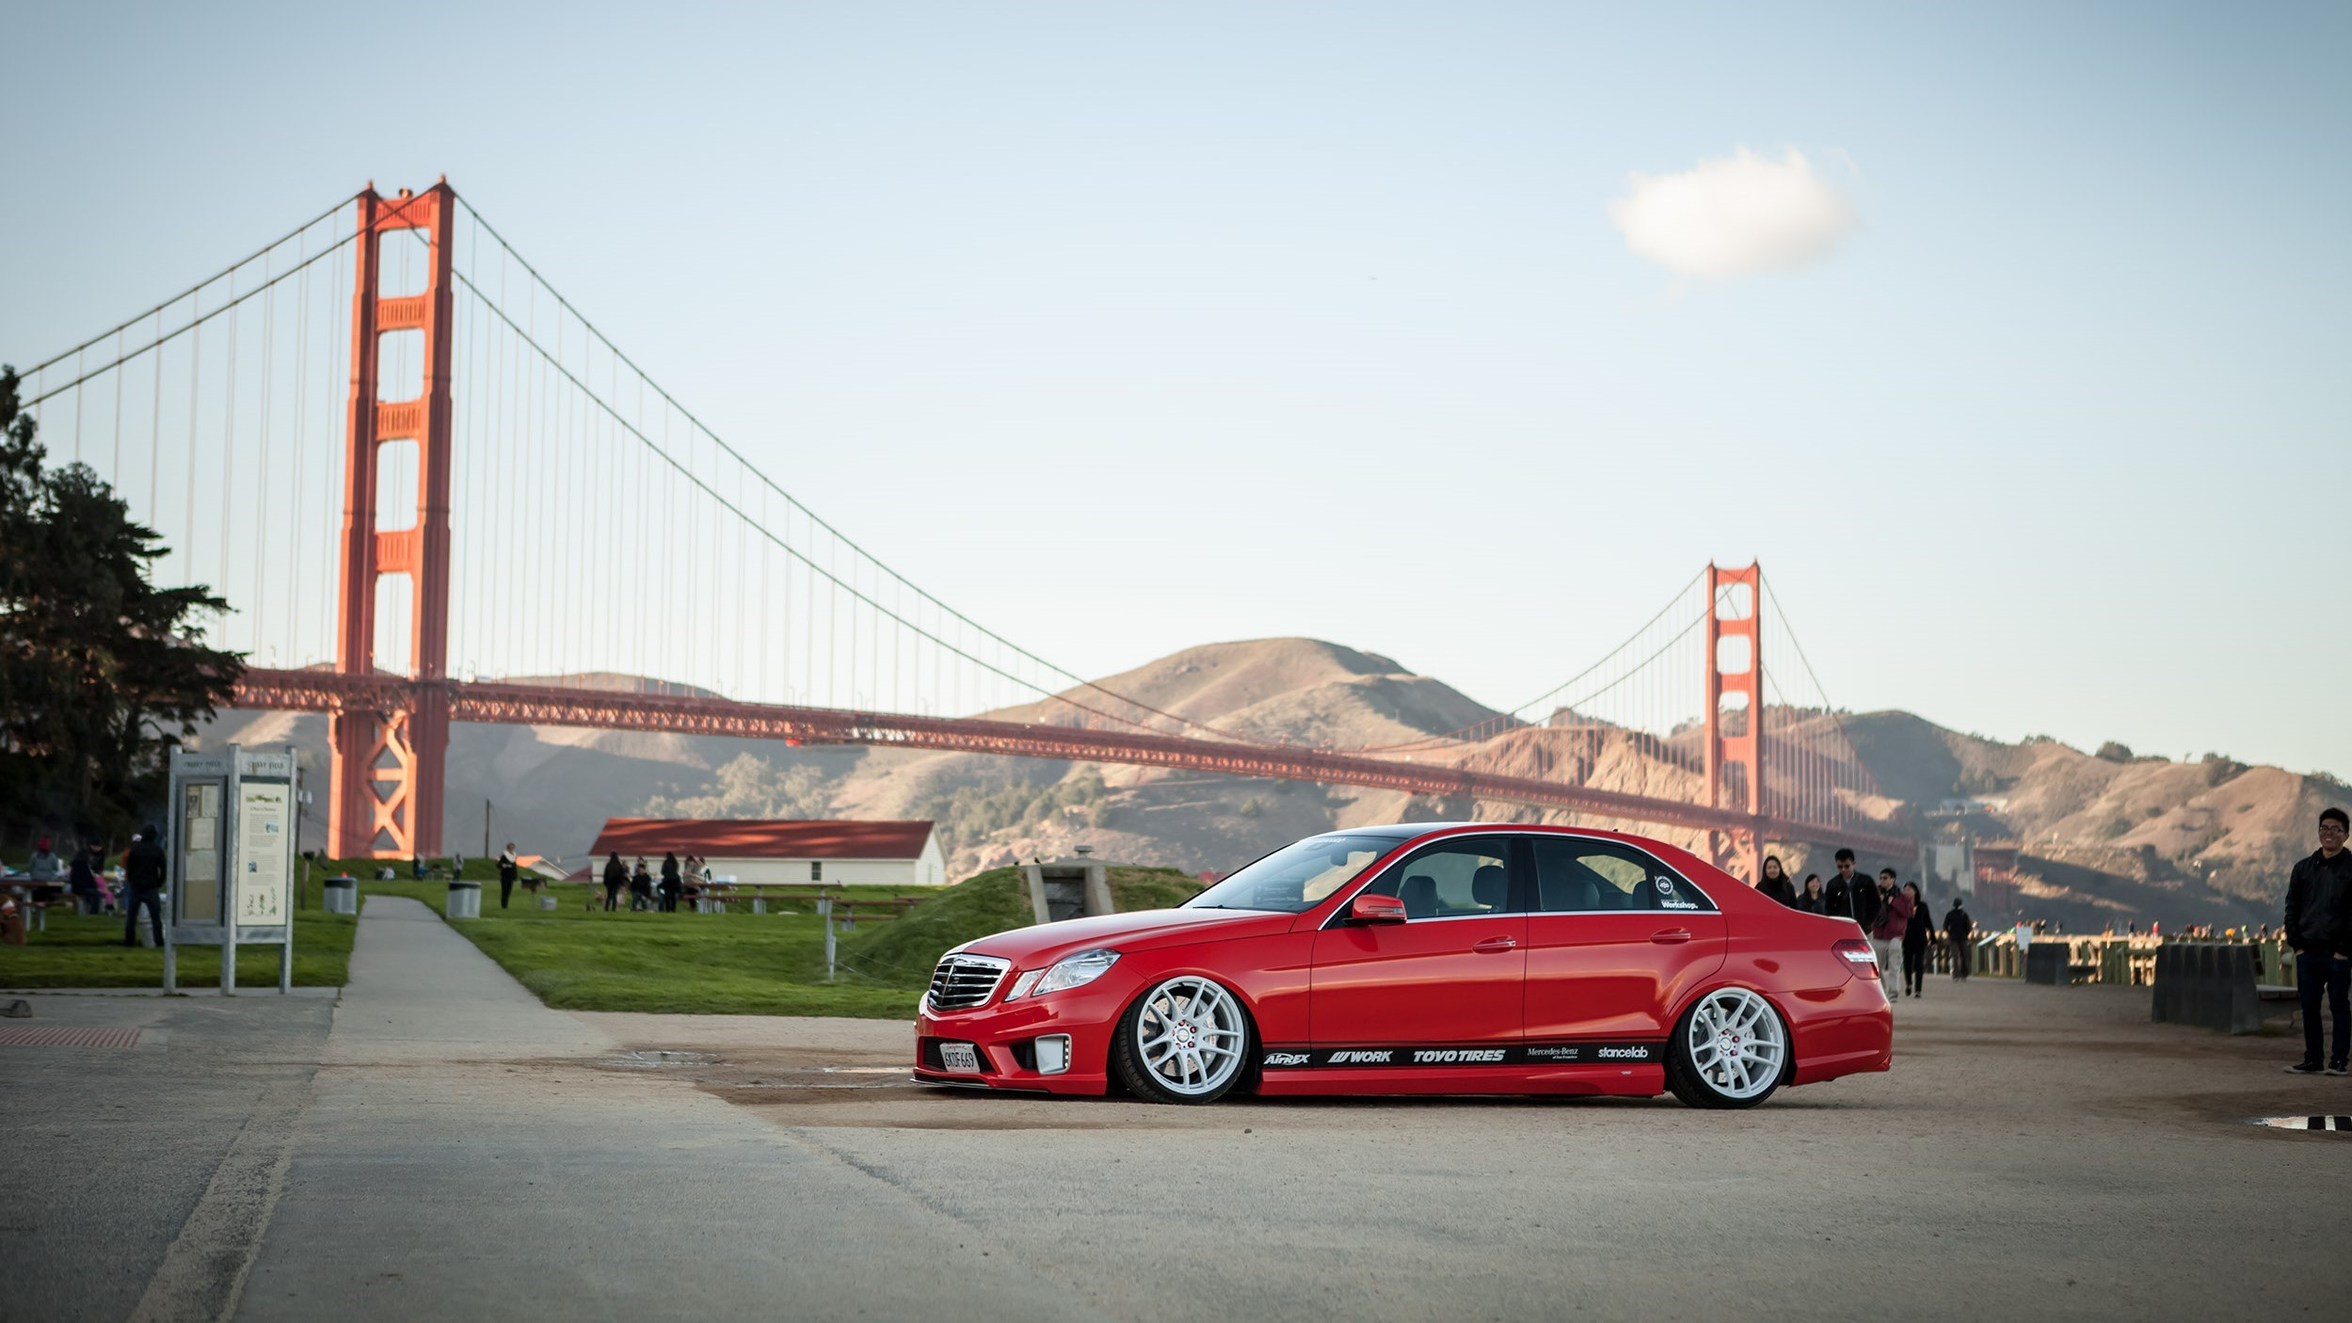
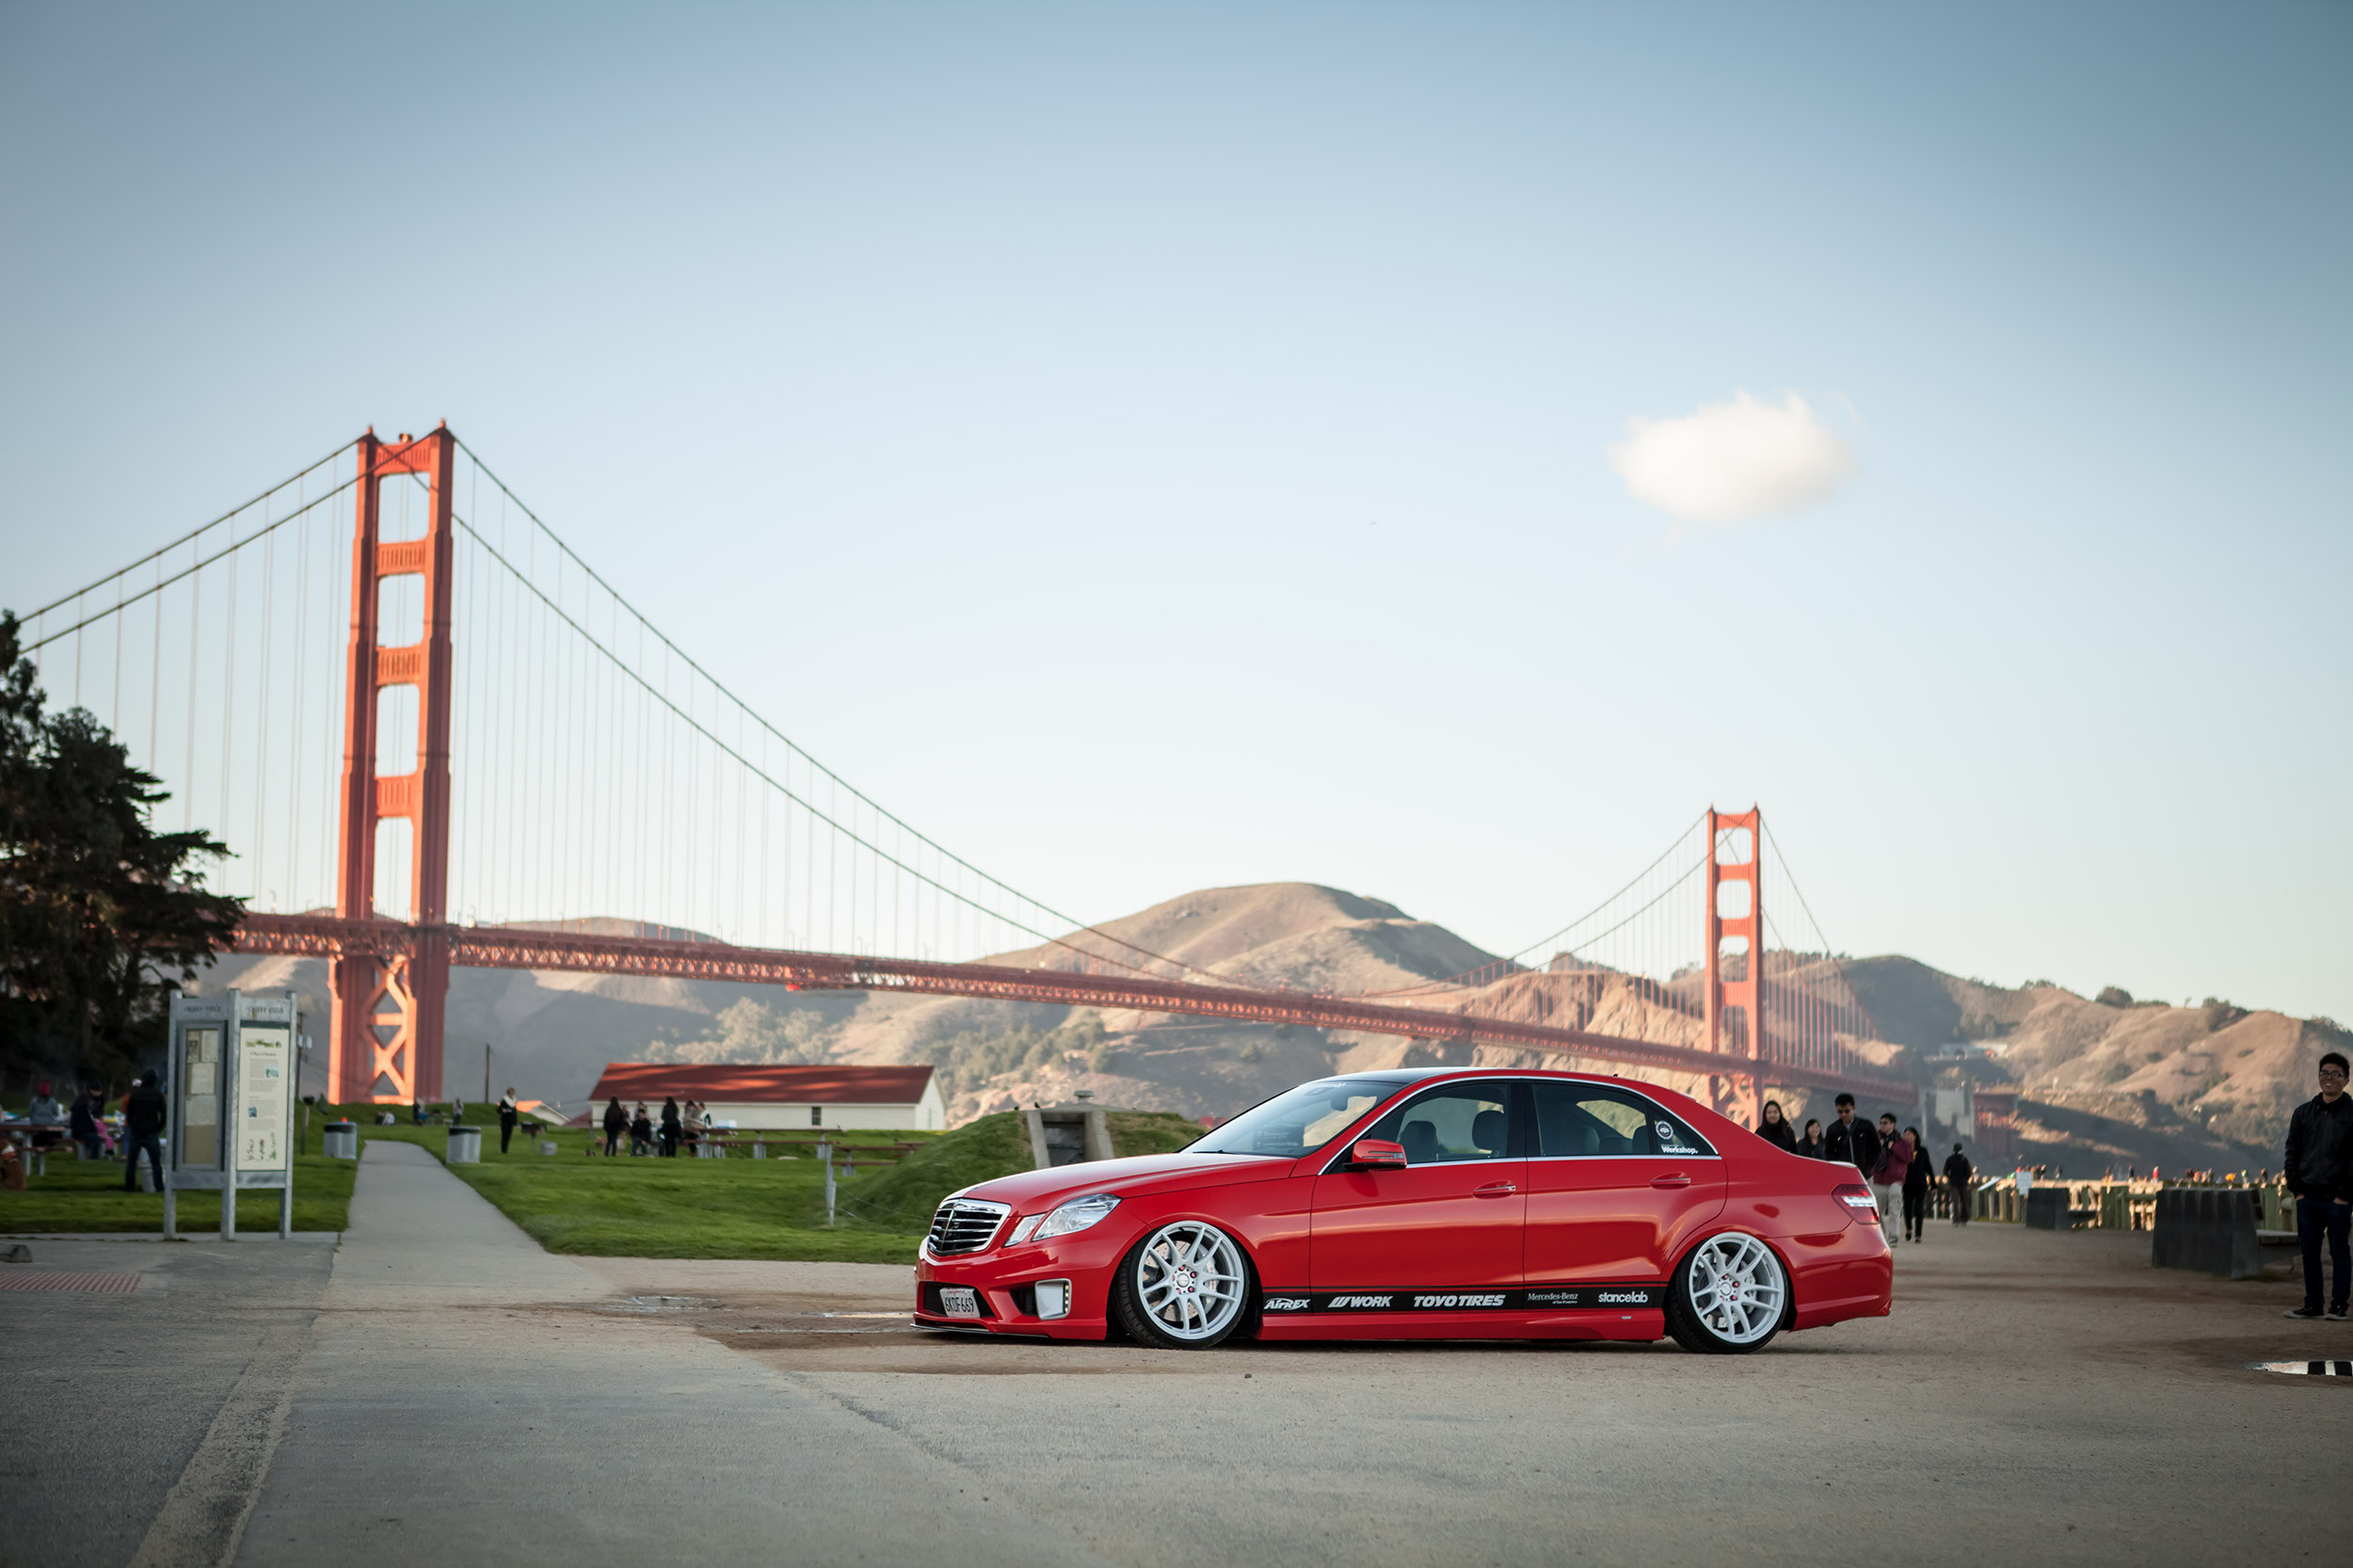
Final

diff --git a/index.html b/index.html
@@ -120,74 +120,39 @@
 
       <!--First slide-->
       <div class="carousel-item active">
-       <div class="view justify-content-center" style="display:block; position:relative; padding:0px; margin:0px;">
-          <img src="img/carousel photo/Header%201.jpg" style="max-height: auto ; max-width: 100%; margin:auto; position:absolute; bottom:0px">
-
-        
-
+      
+    <div class="view" style="background-image: url('img/carousel photo/Header%201.jpg'); background-repeat: no-repeat; background-size: cover; background-position: 50% bottom">
         </div>
+    
       </div>
       <!--/First slide-->
 
       <!--Second slide-->
       <div id="Home" class="carousel-item">
-        <div class="view justify-content-center" style="display:block; position:relative; padding:0px; margin:0px;">
-          <img src="img/carousel photo/Header%202.jpg" style="max-height: auto ; max-width: 100%; margin:auto; position:absolute; bottom:0px">
-            </div>
+        <div class="view " style="background-image: url('img/carousel photo/Header%202.jpg'); background-repeat: no-repeat; background-size: cover; background-position:50% 80%;">
+       </div>
       </div>
       <!--/Second slide-->
 
       <!--Third slide-->
       <div class="carousel-item">
-         <div class="view justify-content-center" style="display:block; position:relative; padding:0px; margin:0px;">
-          <img src="img/carousel photo/Header%203.jpg" style="max-height: auto ; max-width: 100%; margin:auto; position:absolute; bottom:0px">
-            
-        </div>
+    <div class="view " style="background-image: url('img/carousel photo/Header%203.jpg'); background-repeat: no-repeat; background-size: cover; background-position: 50% bottom;">
+       </div>
       </div>
       <!--/Third slide-->
 
        <!--Fourth slide-->
       <div class="carousel-item">
-       <div class="view justify-content-center" style="display:block; position:relative; padding:0px; margin:0px;">
-          <img src="img/carousel photo/Header%204.jpg" style="height: auto ; width: 100%; margin:auto; position:absolute; bottom:0px">
-
-          <!-- Mask & flexbox options-->
-<!--          <div class="mask rgba-black-light d-flex justify-content-center align-items-center">-->
-
-            <!-- Content -->
-<!--
-            <div class="carousel-text text-center white-text mx-5 wow fadeIn">
-              <h1 class="mb-4">
-                  <img src="img/carousel photo/Logo/stance-logo - white.png" alt="" class="carousel-logo">
-              </h1>
-              <p class="Premier">
-                <strong>Bay Area's Premier European Shop</strong>
-              </p>
-
-              <p class=" hours  mb-4 d-none d-md-block">
-                <strong>Operating hours: Monday - Friday 9am-6pm Sat. Appointments Only</strong>
-              </p>
-
-              <a href="#contact-form" class="btn btn-outline-white btn-lg">Request a quote
-                <i class="fa fa-check" aria-hidden="true"></i>
-              </a>
-              </div>
--->
-            <!-- Content -->
-
-<!--          </div>-->
-          <!-- Mask & flexbox options-->
-
-        </div>
+    <div class="view " style="background-image: url('img/carousel photo/Header%204.jpg'); background-repeat: no-repeat; background-size: cover; background-position: 50% bottom;">
+       </div>
       </div>
       <!--/ Fourth slide-->
 
 
     <!--Fifth slide-->
       <div class="carousel-item">
-       <div class="view justify-content-center" style="display:block; position:relative; padding:0px; margin:0px;">
-          <img src="img/carousel photo/Header%205.jpg" style="max-height: auto ; max-width: 100%; margin:auto; position:absolute; bottom:0px">
-        </div>
+    <div class="view " style="background-image: url('img/carousel photo/Header%205.jpg');  background-repeat: no-repeat; background-size: cover; background-position: 50% bottom;">
+       </div>
       </div>
       <!--/ Fifth slide-->
        </div>

diff --git a/css/style.css b/css/style.css
@@ -1,8 +1,7 @@
 /* Required height of parents of the Full Page Carousel for proper displaying carousel itself */
 html,
 body{
-  width: 100%;
-    height: 100%;
+  height: 100%;
     margin: 0px;
     padding: 0px;
     overflow-x: hidden; 
